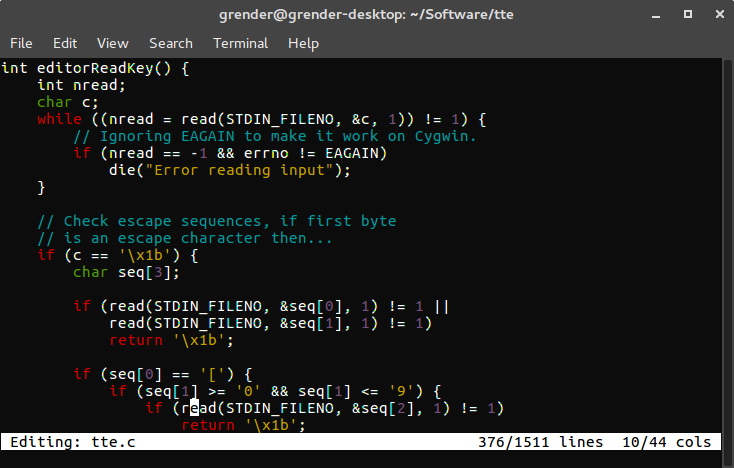
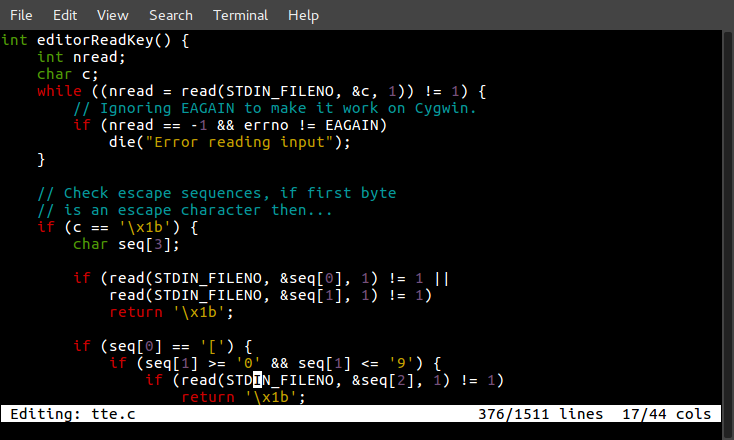
Changed image and a problem painting int's in C files.

diff --git a/tte.c b/tte.c
@@ -156,7 +156,7 @@ char* C_HL_keywords[] = {
 	"switch", "if", "while", "for", "break", "continue", "return", "else",
 	"struct", "union", "typedef", "static", "enum", "class", "case", "#include",
 	"volatile", "register", "sizeof", "typedef", "union", "goto", "const", "auto",
-	"#define", "#if", "#endif", "#error", "#ifdef", "#ifndef", "#undef"
+	"#define", "#if", "#endif", "#error", "#ifdef", "#ifndef", "#undef",
 
 	"int|", "long|", "double|", "float|", "char|", "unsigned|", "signed|",
 	"void|", "bool|", NULL
